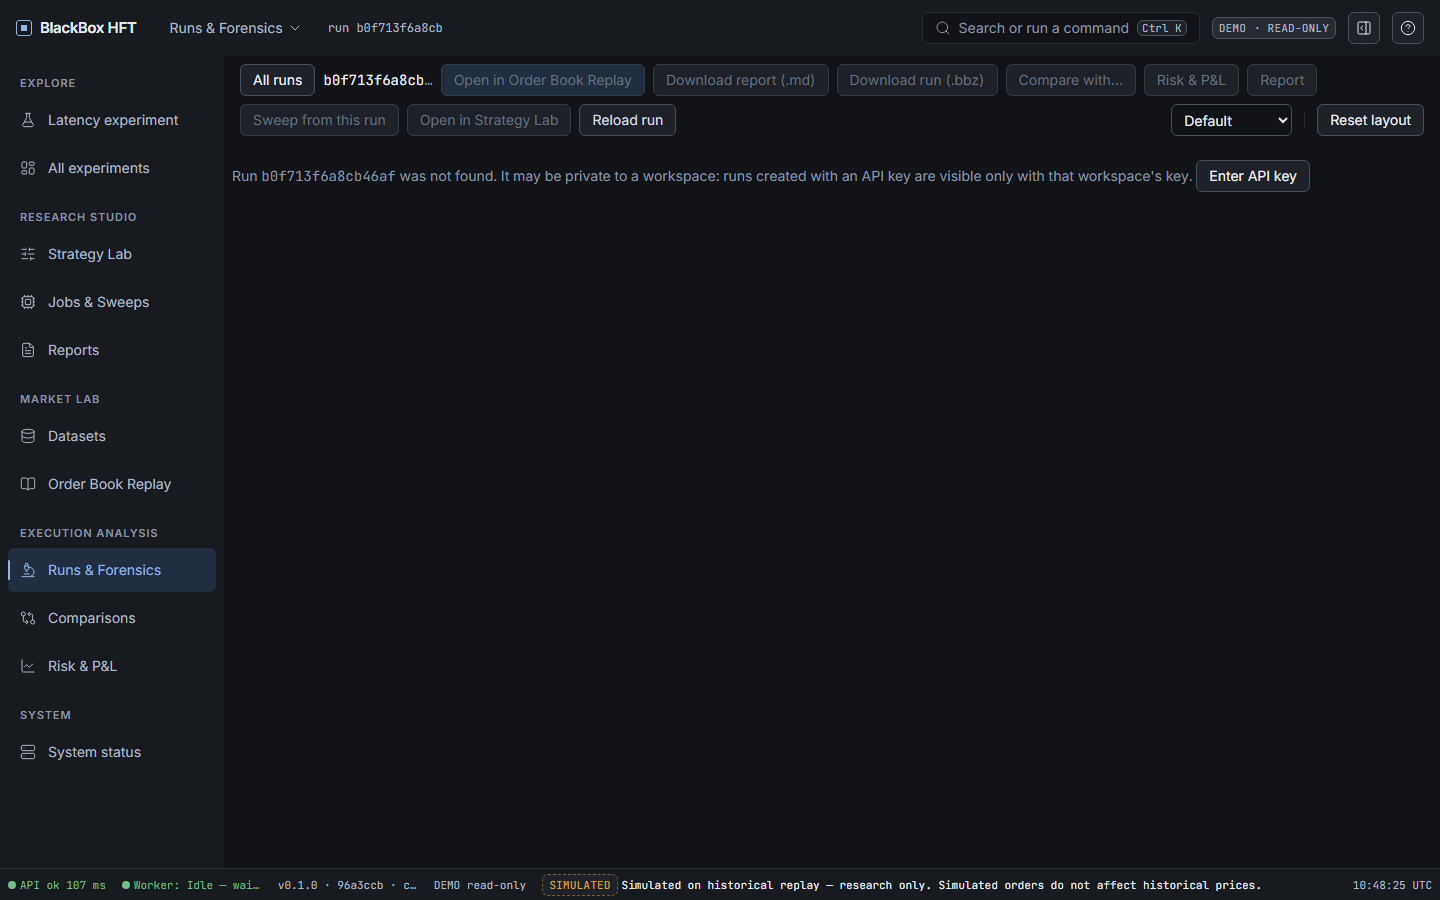
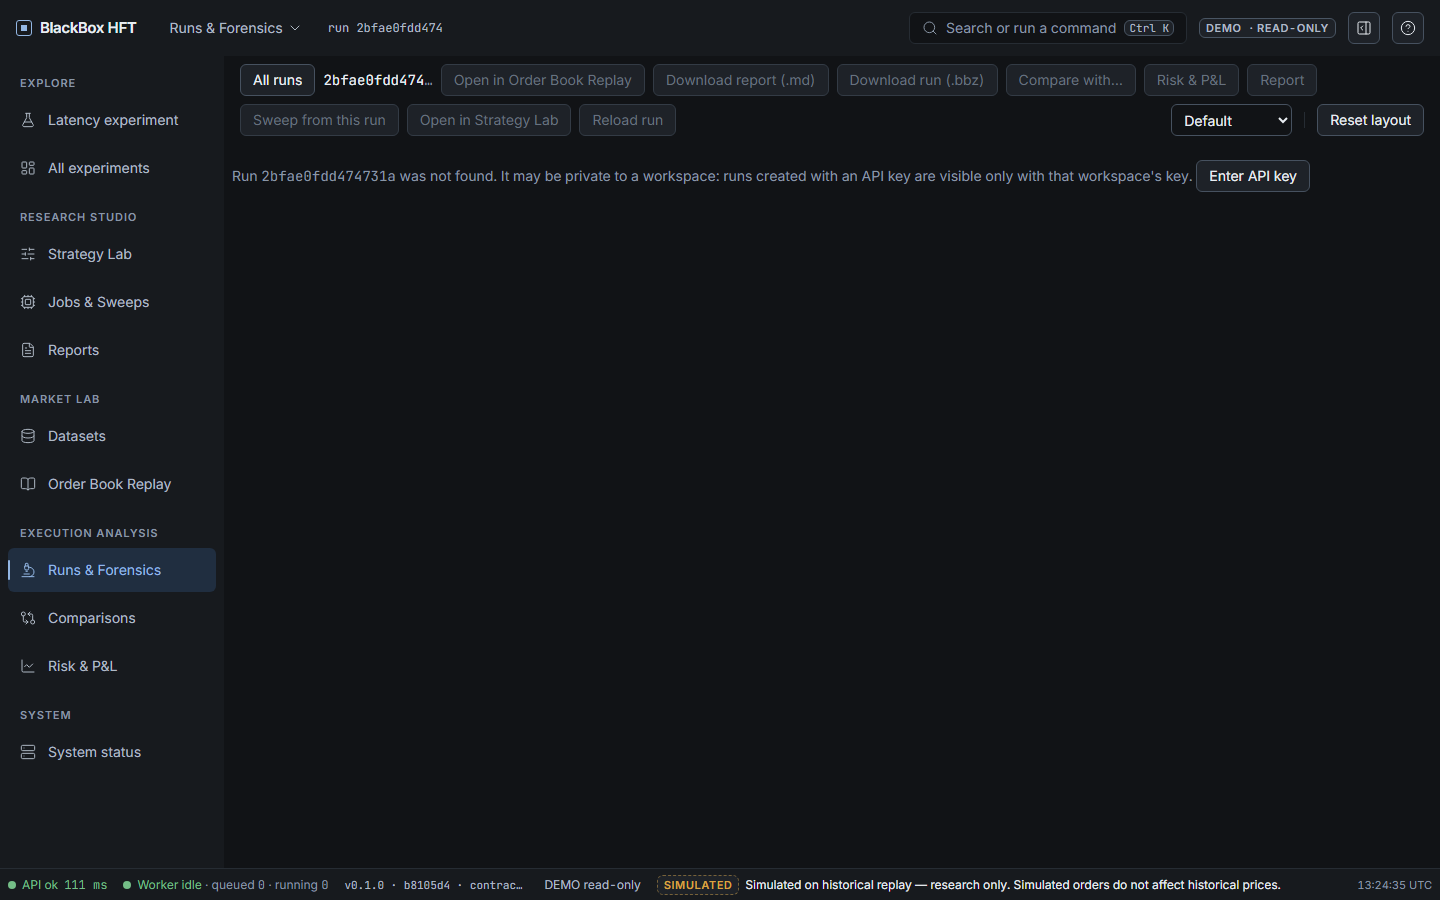
docs: Phase 3 record and production evidence (b8105d4)

diff --git a/docs/rebuild/PHASE3_RECORD.md b/docs/rebuild/PHASE3_RECORD.md
@@ -1,0 +1,60 @@
+# Phase 3: product experience (2026-11-15)
+
+Release `b8105d4634c7b09b2f85ba39941671c5556f9e61` (merge of `phase3/ux`). Frontend-only; no Rust, schema or
+data-contract change.
+
+## Baseline (production `96a3ccb`, before)
+
+Screenshots: `img/p3-before-{explore,lab,replay,risk,order}-{1440,390}.webp`. No overflow or console errors.
+Main problems found:
+- On Explore at 1440 the chart started at y≈581 and was cut off at the bottom of the window.
+- The Strategy Lab showed three dense columns at once.
+- The Risk unit column was clipped.
+- On phones the status bar took about 90 px, and 65 controls on Explore and 25 on Replay were under 40 px.
+- Tab strips inside height-limited panes collapsed to 8 px.
+- Prose was set in monospace.
+- Negative "queue ahead" was unexplained.
+
+## Work and owners
+
+| Area | Owner (model) | Commit | Result |
+|---|---|---|---|
+| Design system | DesignSystem (Opus 5.5) | f26a449 | Unified tokens; button, input, tab and table rules; Inter for prose, mono only for numbers; compact phone status bar. See [DESIGN_SYSTEM.md](DESIGN_SYSTEM.md) |
+| Explore | ExploreP3 (Opus 5.5) | d40176b | Compact header; aligned scenario table with units and signed Δ; chart above the fold with the book beside it; tooltips; lifecycle "what differed" |
+| Strategy Lab | LabP3 (Opus 5.5) | a137993, 8204579 | Four steps (choose, configure, review, run); preset cards with the question each investigates; validation errors jump to the field; job followed in place with next-step links |
+| Replay, forensics | ReplayP3 (Opus 5.5) | 96cc558 | Grouped play/pause toolbar; ladder centred on the spread; zoom controls; visible overlays; Lifecycle tab; phone tabs keep time and order |
+| Risk, runs, compare, reports | RiskP3 (Opus 5.5) | 9a05172 | Answer-first risk summary and 2×2 chart grid; run identity with copyable hashes; Held constant → Changed → First divergence → Afterwards → Conclusion; readable report |
+| Quant semantics | QuantSol (GPT-6.1 Sol) | 732fa41 | Negative modeled queue estimate is a legitimate signed exhaustion state, not a defect. Wording fixes applied across explore, risk, forensics and terminal. See [QUANT_SEMANTICS_REVIEW.md](QUANT_SEMANTICS_REVIEW.md) |
+| Independent review | P3ReviewOpus (Opus 5.5; Sol hit its usage limit mid-review) | d07bc3f | Candidate 7.70 vs production 6.35; ACCEPT conditional on D1–D3. See [PHASE3_REVIEW.md](PHASE3_REVIEW.md) |
+| Review defects D1–D8, Replay h1, Back scroll | LabFix, PolishFix (Opus 5.5) | 8204579, b0e763b | All fixed and checked with each review repro |
+
+## Tests
+
+- **Local:** `tsc` clean; vitest 114/114; build entry chunk 406 kB (131 kB gzip; was 405/131); Playwright 7/7.
+- **Spec fix:** `research.spec.ts` was corrected to the documented cancel contract. A queued job is cancelled at once; a running job may finish first, so its cancel returns 409.
+- **CI:** run 43717865021, all 8 jobs green.
+
+## Production (after)
+
+| Check | Result |
+|---|---|
+| `/status` | `git_sha=b8105d4`, worker idle; `readyz` migrations 0009 |
+| Render | image `sha256:c41fd646…864c6b`, deploy `dep-dbsr463l550s7398h2i0` live |
+| Vercel | production `blackbox-drlsnr51e…` Ready |
+| Smoke | 8/8 PASS |
+| Anonymous acceptance | 7/7 PASS |
+| Authenticated journey (new Lab flow) | PASS. Job `01a1df60-f94b-782d-9332-6cf1e88ed3d9`, run `2bfae0fdd474731a`; result sha `bb34d8c5…` identical to the earlier releases, so simulation output is unchanged; comparison 201, report 200, anonymous 404, re-auth OK, 0 page errors |
+| Overflow and console | no overflow on 5 pages at 1440 and 390; no console errors. Screenshots `img/p3-after-prod-*.webp` |
+| API calls per page (unchanged) | Explore 11, Lab 5, Replay 7, Risk 7 (was 5: adds the comparisons lookup), Order 6 |
+
+Rollback: redeploy image `sha256:565fc4041b13789b069e6a793d2200ad5bced103b33e7991f090cded294c2d86` (release
+`96a3ccb`) and promote the previous Vercel deployment. No migration was involved.
+
+## Remaining
+
+- **Phone targets:** still under 40 px for the run blotter's Risk/Report links and Explore's "Show … in the replay" buttons.
+- **Replay at 1024×768:** the ladder shows about 2 rows and the toolbar wraps to 3 rows.
+- **Desktop toolbars:** secondary toolbar actions are reached with arrow keys inside the toolbar, not with Tab.
+- **Lab size estimate:** derived in the browser before submission and labelled so; the server's estimate replaces it after submission.
+- **Light theme:** not attempted, by design. A polished dark theme came first.
+- **Performance vitals:** LCP/INP were not measured on a controlled throttled profile; only navigation and API timings on this workstation.

diff --git a/docs/engineering/PROJECT_STATE.md b/docs/engineering/PROJECT_STATE.md
@@ -4,14 +4,15 @@ Single source of truth for the current phase, decisions, infrastructure and next
 
 ## Current phase
 
-**Phase 2 released and verified (2026-11-15 10:47 UTC).** `main` = `96a3ccb`. The API reports
-`git_sha=96a3ccb` from image `ghcr.io/tanmay-alpha/blackbox-hft@sha256:565fc404…c2d86` (Render deploy
-`dep-dbsoram7bikc73c2i3j0` live). Vercel production is built from `main`, migrations run through 0009, the worker
-is idle and there is no `BB_GIT_SHA` override. Smoke passed 8/8, anonymous acceptance 7/7, and the authenticated
-journey passed (run `b0f713f6a8cb46af`, 7.9 s on the worker). Evidence and rollback (`sha256:212495fa…`, release
-`a665991`): [../rebuild/PRODUCTION_ACCEPTANCE.md](../rebuild/PRODUCTION_ACCEPTANCE.md). Phase-2 summary:
-[../rebuild/FINAL_REVIEW.md](../rebuild/FINAL_REVIEW.md) "Phase 2 (2026-11-15)". Earlier release records
-(`a665991`, `d85f743`, `1873f4d…`) are historical.
+**Phase 3 released and verified (2026-11-15 13:23 UTC).** `main` = `b8105d4` (frontend-only product-experience
+release). The API reports `git_sha=b8105d4` from image `ghcr.io/tanmay-alpha/blackbox-hft@sha256:c41fd646…864c6b`
+(Render deploy `dep-dbsr463l550s7398h2i0` live). Vercel production is built from `main`, migrations run through 0009,
+the worker is idle and there is no `BB_GIT_SHA` override. Smoke passed 8/8, anonymous acceptance 7/7, and the
+authenticated journey through the new Strategy Lab passed (run `2bfae0fdd474731a`, result hash unchanged). Record,
+tests and rollback (`sha256:565fc404…`, release `96a3ccb`): [../rebuild/PHASE3_RECORD.md](../rebuild/PHASE3_RECORD.md).
+Earlier phases: [../rebuild/FINAL_REVIEW.md](../rebuild/FINAL_REVIEW.md) and
+[../rebuild/PRODUCTION_ACCEPTANCE.md](../rebuild/PRODUCTION_ACCEPTANCE.md). Earlier release records (`96a3ccb`,
+`a665991`, `d85f743`, `1873f4d…`) are historical.
 
 Hosted system (the `BB_GIT_SHA` service env override was removed on 2026-11-15; the SHA now
 comes from the image):
